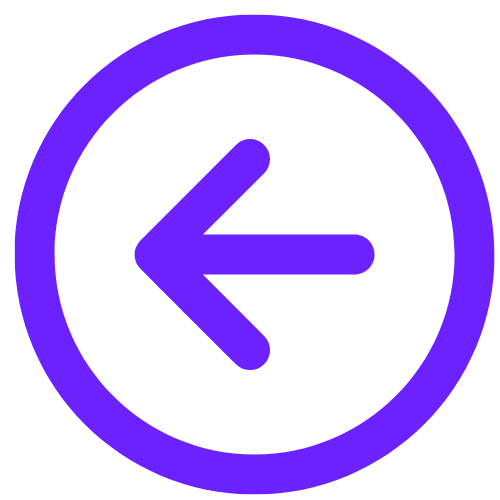
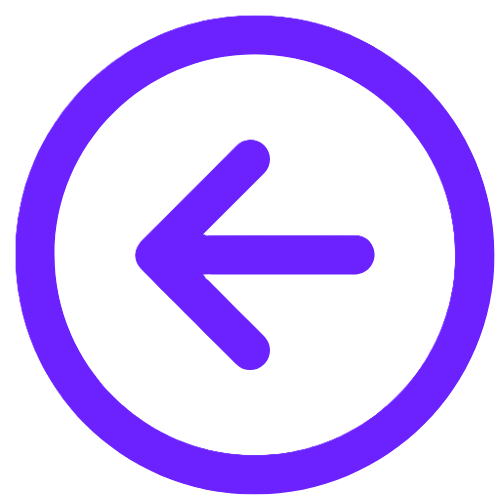
.

diff --git a/app/css/chat.css b/app/css/chat.css
@@ -22,6 +22,7 @@ body {
   height: 90px;           
   padding: 0 16px;       
   box-sizing: border-box;
+  margin-bottom: 0px !important;
 }
 
 .velvet-logo {
@@ -112,8 +113,8 @@ body {
 
 /* botão mídia (MAIOR, SEM FUNDO EXTRA) */
 #btnEnviarConteudo1 {
-  width: 34px;
-  height: 34px;
+  width: 30px;
+  height: 30px;
   border-radius: 50%;
 
   background: transparent;
@@ -127,8 +128,8 @@ body {
 }
 
 #btnEnviarConteudo1 img {
-  width: 34px;
-  height: 34px;
+  width: 30px;
+  height: 30px;
   object-fit: contain;
 }
 
@@ -147,8 +148,8 @@ body {
 
 /* botão enviar (MAIOR) */
 .btn-enviar1 {
-  width: 34x;
-  height: 34px;
+  width: 30x;
+  height: 30px;
   border-radius: 50%;
 
   background: transparent !important;
@@ -162,8 +163,8 @@ body {
 }
 
 .btn-enviar1 img {
-  width: 34px;
-  height: 34px;
+  width: 30px;
+  height: 30px;
   object-fit: contain;
 }
 
